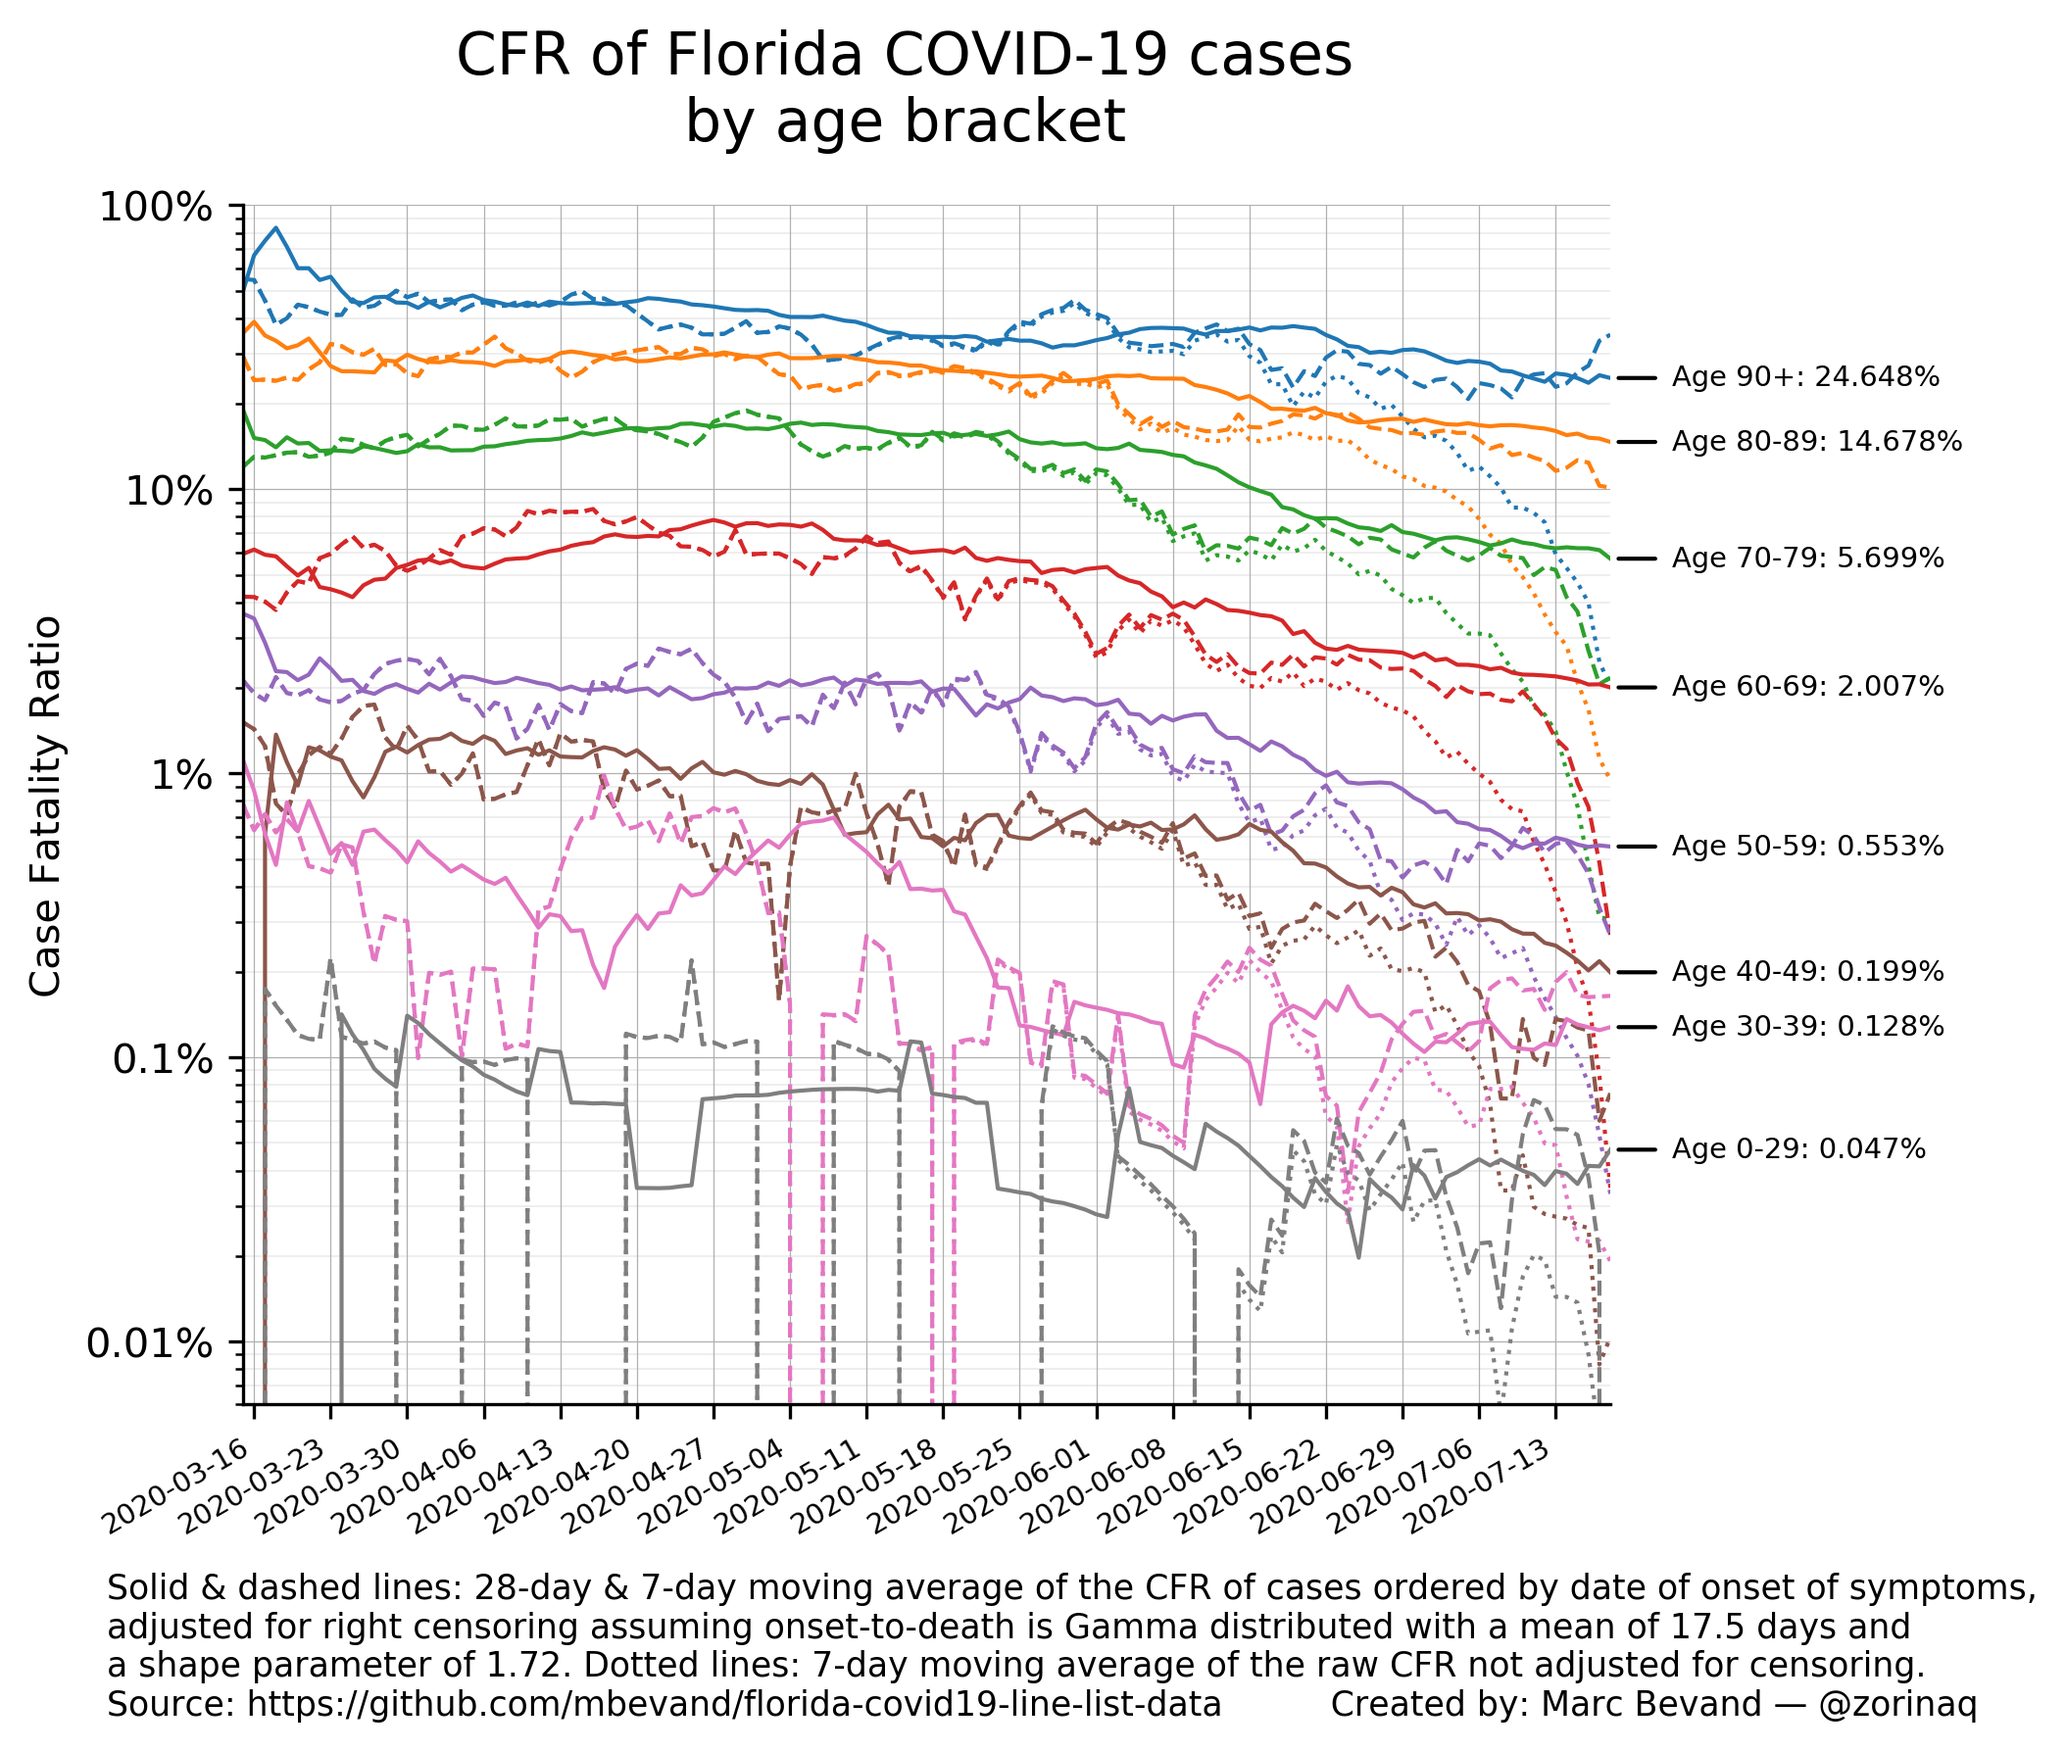
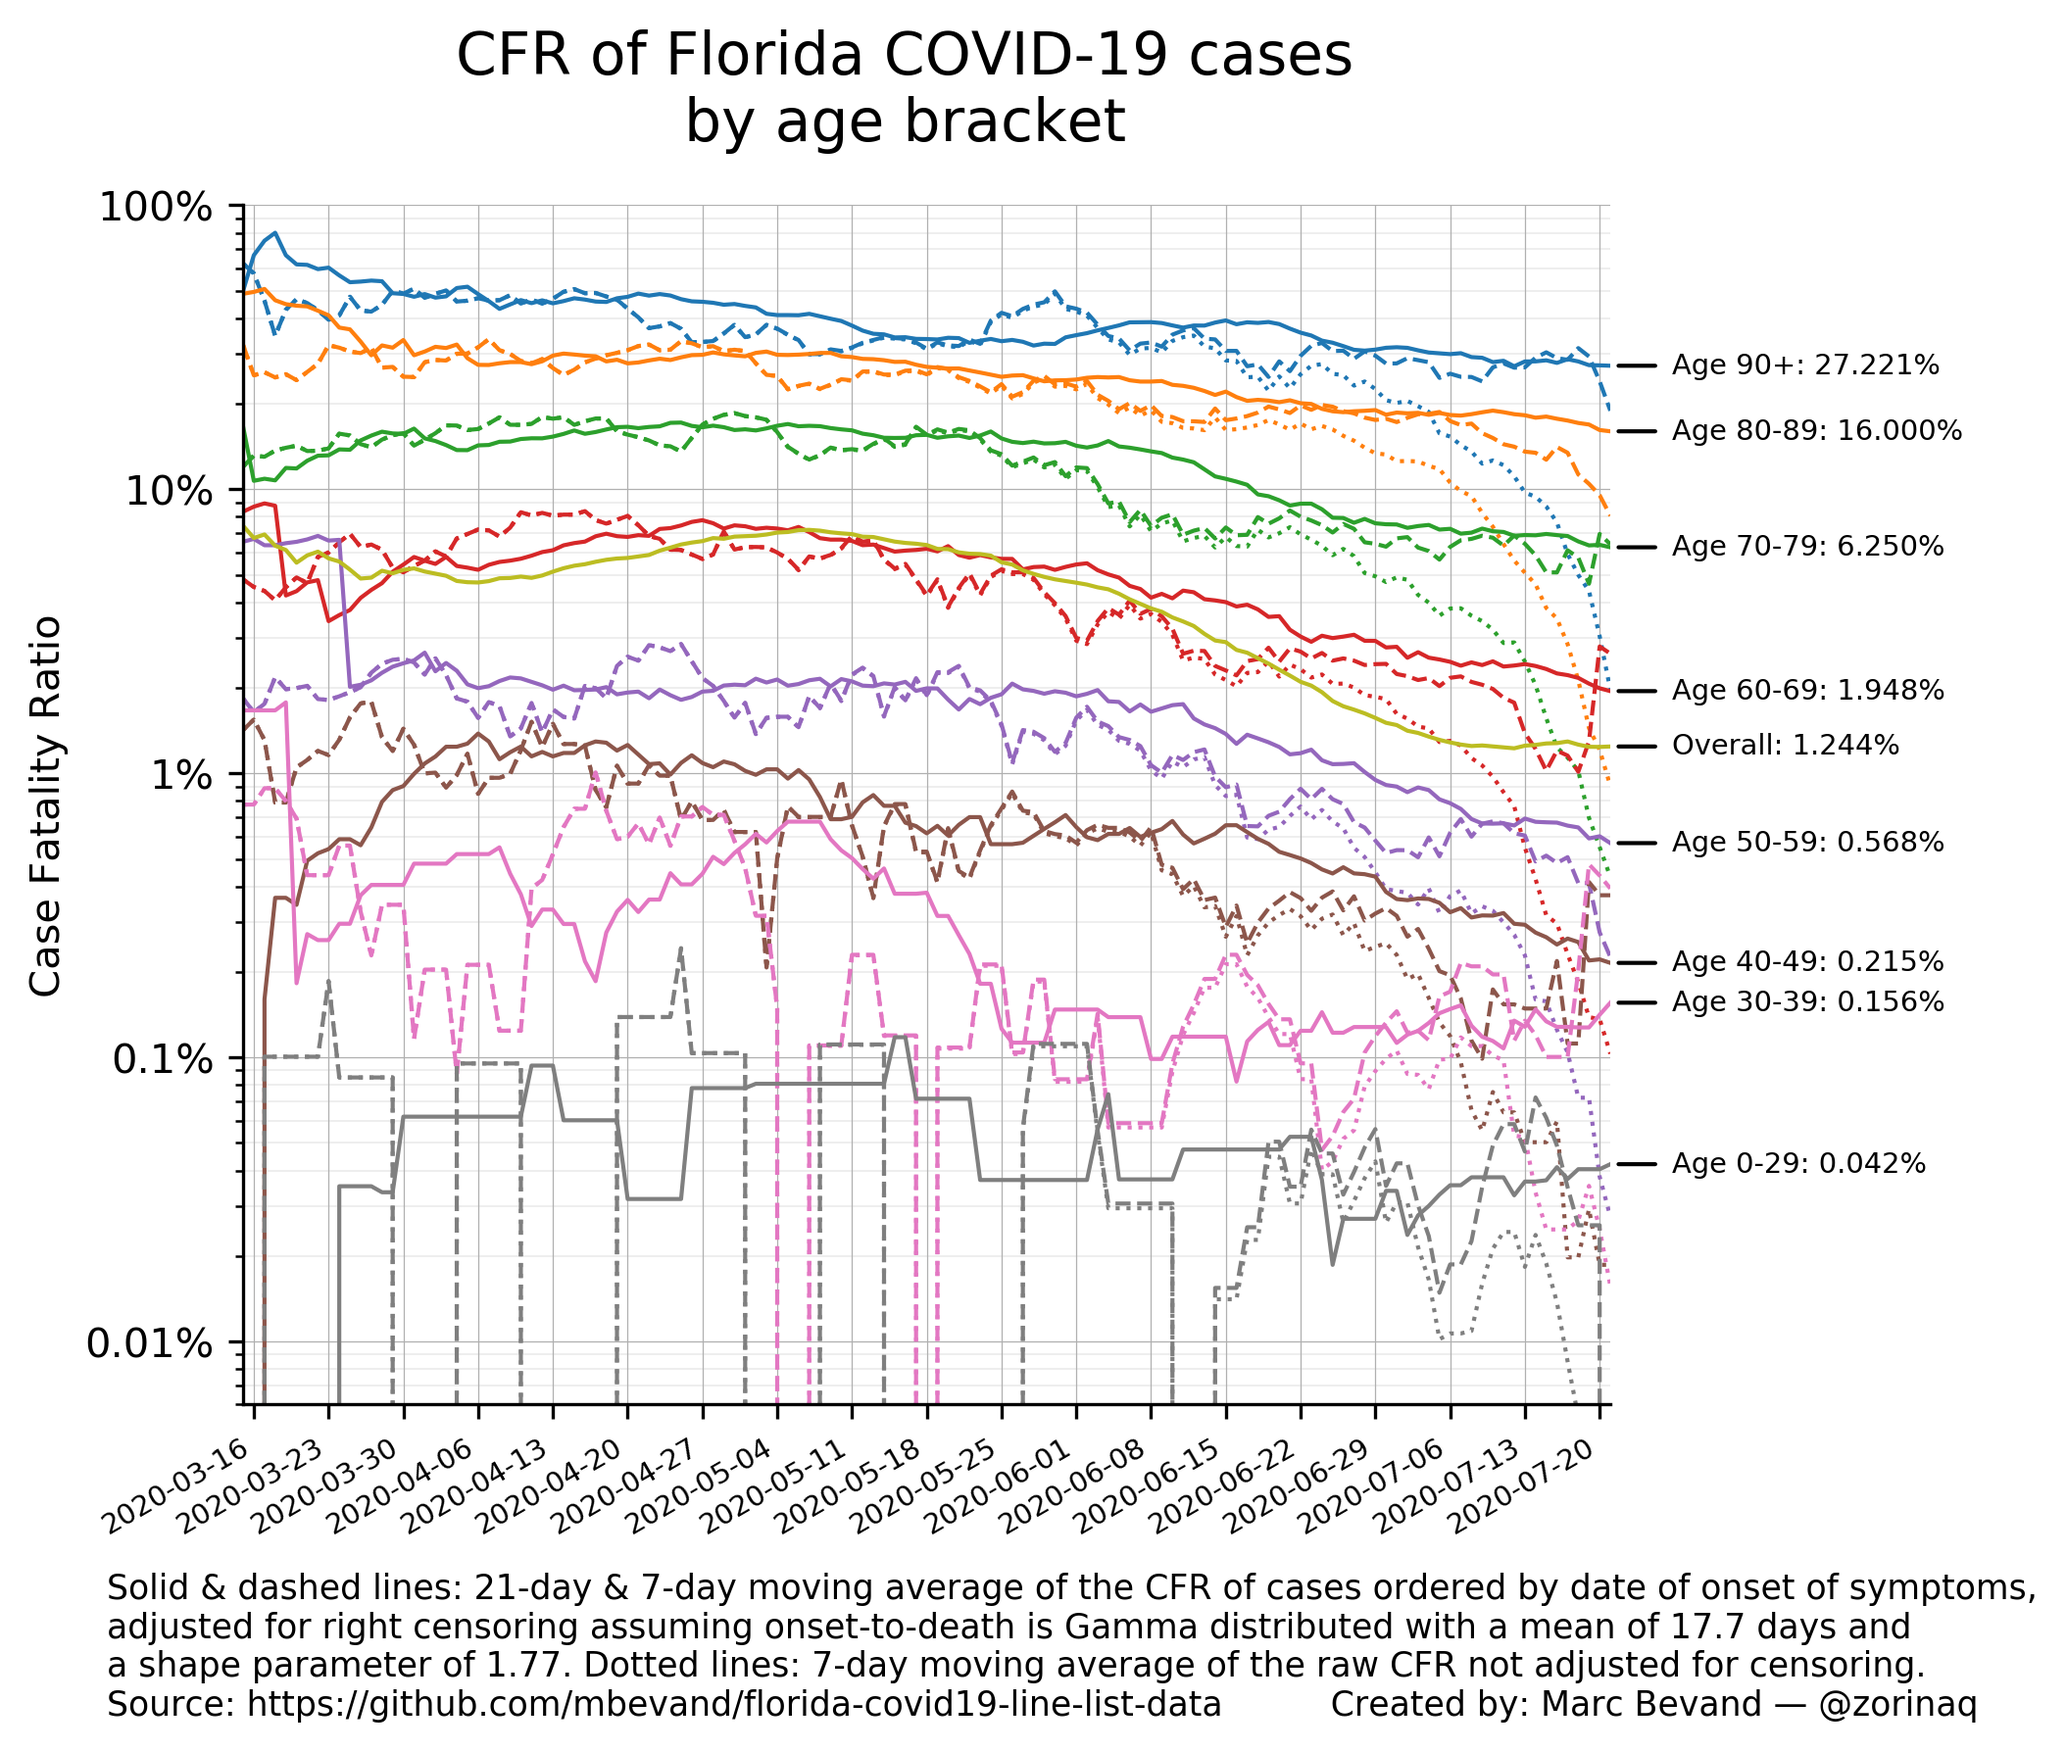
new forecast (2020-07-22) & calculate overall CFR

Changed region(s): [[0.0925, 0.1231, 0.9559, 0.8926]]

diff --git a/age_stratified_cfr.py b/age_stratified_cfr.py
@@ -32,6 +32,7 @@ t20 = [(x[0] / 255., x[1] / 255., x[2] / 255.) for x in
                (247, 182, 210), (199, 199, 199), (219, 219, 141), (158, 218, 229)]]
 datadir = 'data_fdoh'
 censoring_rv = None
+OVERALL = '_overall_'
 
 class Counters():
     deaths = 0
@@ -92,6 +93,20 @@ def calc_cfr(data, mean, shape):
                 data[date][bracket].cfr_adjusted_short = 100 * np.mean(list_cfr_adj_short)
             if list_cfr_adj_long:
                 data[date][bracket].cfr_adjusted_long = 100 * np.mean(list_cfr_adj_long)
+        # Calculate overall CFR
+        data[date][OVERALL] = Counters()
+        for bracket in age_brackets:
+            data[date][OVERALL].deaths_adjusted += data[date][bracket].deaths_adjusted
+            data[date][OVERALL].cases += data[date][bracket].cases
+        list_cfr = []
+        for delta in range(avg_days_long):
+            date2 = date - datetime.timedelta(days=delta + avg_days)
+            if date2 in data:
+                p = data[date2][OVERALL]
+                if p.cases:
+                    list_cfr.append(p.deaths_adjusted / p.cases)
+        if list_cfr:
+            data[date][OVERALL].cfr_adjusted_long = 100 * np.mean(list_cfr)
 
 def print_stats(data):
     print(f'{"period":>10}', end='')
@@ -109,15 +124,17 @@ def print_stats(data):
         print('')
 
 def bracket2str(bracket):
+    if bracket == OVERALL:
+        return 'Overall'
     if bracket[1] == math.inf:
-        return f'{bracket[0]}+'
-    return f'{bracket[0]}-{bracket[1]}'
+        return f'Age {bracket[0]}+'
+    return f'Age {bracket[0]}-{bracket[1]}'
 
 def gen_chart(data, mean, shape):
     rcParams["figure.titlesize"] = "x-large"
     (fig, ax) = plt.subplots(dpi=300, figsize=(6.0, 6.0)) # default is 6.4 × 4.8
     col_i = 0
-    for bracket in reversed(age_brackets):
+    for bracket in list(reversed(age_brackets)) + [OVERALL]:
         dates, dates2, dates3, cfrs, cfrs2, cfrs3 = [], [], [], [], [], []
         for date, counters in sorted(data.items()):
             if date >= first_date:
@@ -130,12 +147,13 @@ def gen_chart(data, mean, shape):
                 if counters[bracket].cfr_adjusted_long is not None:
                     dates3.append(date)
                     cfrs3.append(counters[bracket].cfr_adjusted_long)
-        ax.plot(dates, cfrs, linewidth=1.0, color=t20[col_i], linestyle=':')
-        ax.plot(dates2, cfrs2, linewidth=1.0, color=t20[col_i], linestyle='--')
+        if bracket != OVERALL:
+            ax.plot(dates, cfrs, linewidth=1.0, color=t20[col_i], linestyle=':')
+            ax.plot(dates2, cfrs2, linewidth=1.0, color=t20[col_i], linestyle='--')
         ax.plot(dates3, cfrs3, linewidth=1.0, color=t20[col_i], linestyle='-')
         last_day, last_cfr = dates3[-1], cfrs3[-1]
         # label the last long-term adjusted CFR
-        ax.annotate(f'Age {bracket2str(bracket)}: {last_cfr:.3f}%', (last_day, last_cfr),
+        ax.annotate(f'{bracket2str(bracket)}: {last_cfr:.3f}%', (last_day, last_cfr),
                 xytext=(15, 0), textcoords='offset points',
                 verticalalignment='center', fontsize='x-small', arrowprops={'arrowstyle':'-'},
                 )

diff --git a/forecast_deaths.py b/forecast_deaths.py
@@ -96,19 +96,16 @@ cfr_models = [
                 }
             ),
         CFRModel(
-            'Our model (age_stratified_cfr.py) based on the FDOH line list',
-            # TODO: age_stratified_cfr.py should calculate the average CFR. For now assume it is zero.
-            # This does not affect the forecast much because the average CFR is only used with cases
-            # of unknown age.
-            0.0 / 100, {
-                (0, 29):  0.047 / 100,
-                (30, 39): 0.128 / 100,
-                (40, 49): 0.199 / 100,
-                (50, 59): 0.553 / 100,
-                (60, 69): 2.007 / 100,
-                (70, 79): 5.699 / 100,
-                (80, 89): 14.678 / 100,
-                (90, 199): 24.648 / 100,
+            'Our CFR calculated on the Florida line list (age_stratified_cfr.py)',
+            1.244 / 100, {
+                (0, 29):  0.042 / 100,
+                (30, 39): 0.156 / 100,
+                (40, 49): 0.215 / 100,
+                (50, 59): 0.568 / 100,
+                (60, 69): 1.948 / 100,
+                (70, 79): 6.250 / 100,
+                (80, 89): 16.000 / 100,
+                (90, 199): 27.221 / 100,
                 }
             ),
         ]

diff --git a/README.md b/README.md
@@ -61,7 +61,7 @@ from 5 independent models:
 * Model 2: [Estimates of the severity of coronavirus disease 2019: a model-based analysis][m2] (table 1, CFR, Adjusted for censoring, demography, and under-ascertainment)
 * Model 3: [https://www.epicentro.iss.it/coronavirus/bollettino/Bollettino-sorveglianza-integrata-COVID-19_26-marzo%202020.pdf][m3] (table 1, Casi totali, % Letalità)
 * Model 4: [Case fatality risk by age from COVID-19 in a high testing setting in Latin America: Chile, March-May, 2020][m4] (table 2, Latest estimate)
-* Model 5: CFR calculated by the script `age_stratified_cfr.py`
+* Model 5: CFR calculated on the Florida line list by the script `age_stratified_cfr.py`
 
 Since the forecast is based on line list case data, ie. *detected* cases, it is
 important that we feed it CFR estimates, not IFR estimates. Infection Fatality
